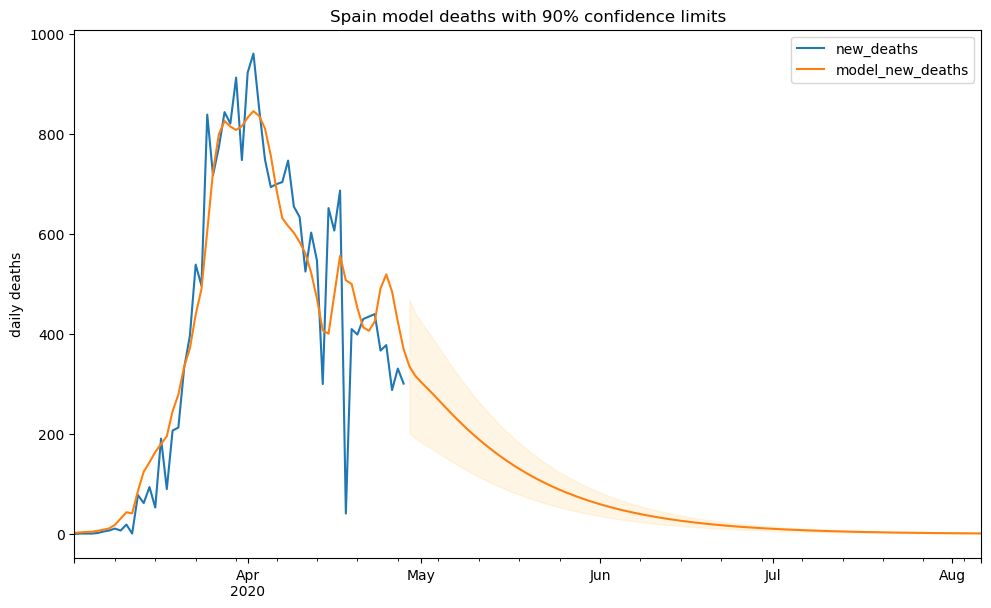
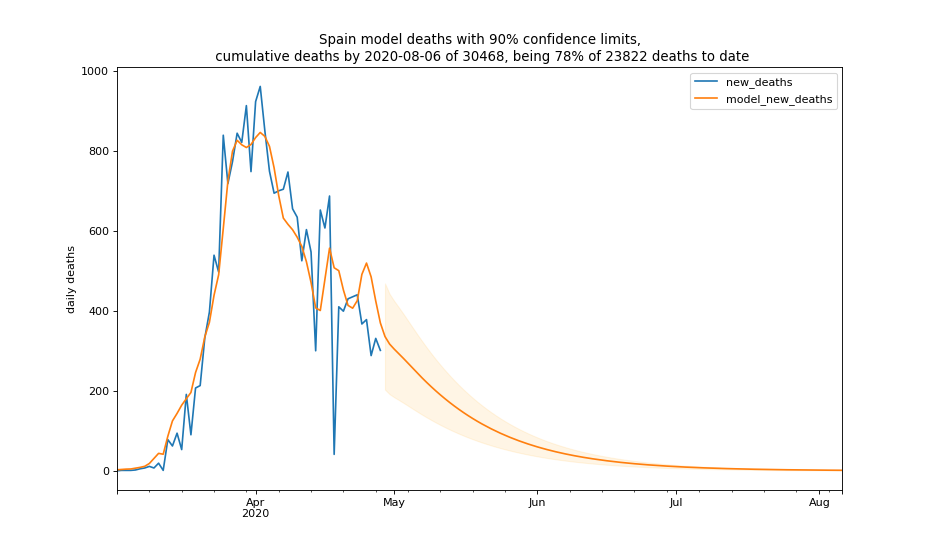
capitalise country names, automate daily generation of charts

diff --git a/COVID19.py b/COVID19.py
@@ -580,8 +580,10 @@ if __name__ == "__main__":
     print()
     current_deaths = int(df['deaths'].iloc[-1])
     accum_deaths = int(proj_df['deaths'].iloc[-1])
-    print('cumulative deaths by',proj_df.index[-1].strftime('%Y-%m-%d'),'of',accum_deaths,
-    ', being',int(100*current_deaths/accum_deaths),'% of',current_deaths,'deaths to date')
+
+    title_text='cumulative deaths by '+proj_df.index[-1].strftime('%Y-%m-%d')+' of '+str(accum_deaths)
+    title_text+=', being '+str(int(100*current_deaths/accum_deaths))+'% of '+str(current_deaths)+' deaths to date'
+    print(title_text)
     print()
 
     
@@ -598,8 +600,7 @@ if __name__ == "__main__":
                                              [5,95], interpolation = 'linear')
     #rebalance bounds around zero
     upper_bound = (u_bound- l_bound)/2.
-    lower_bound = (l_bound- u_bound)/2.
-      
+    lower_bound = (l_bound- u_bound)/2.    
     
     #======================  show 90% confidence bounds
     plot_df = proj_df[['model_new_deaths']]
@@ -610,11 +611,14 @@ if __name__ == "__main__":
     plot_df.at[mask,'model_new_cases']= proj_df.loc[mask,'new_cases']
     plot_df.at[~mask,'new_deaths'] = proj_df.loc[~mask,'new_deaths']
     plot_df.at[~mask,'new_cases'] = proj_df.loc[~mask,'new_cases']
-    title_str = selected_country+' model deaths with 90% confidence limits'
+    title_str = selected_country+' model deaths with 90% confidence limits,'+'\n '+title_text
     ax = plot_df[['new_deaths','model_new_deaths']].iloc[40:].plot(title=title_str, figsize=(11.7,7))
     ax.fill_between(plot_df['5% bound new_deaths'].index, plot_df['5% bound new_deaths'], plot_df['95% bound new_deaths'], 
                     color='orange', alpha=.1)   
     plt.ylabel('daily deaths')
+    image_path = pd.datetime.now().date().strftime('%Y%m%d')+'/'
+    image_path = 'C:/Users/Mark/Documents/Python/code/covid19/' +image_path
+    plt.savefig(image_path+selected_country.upper()+'.png')
     plt.show()
     #======================
     
